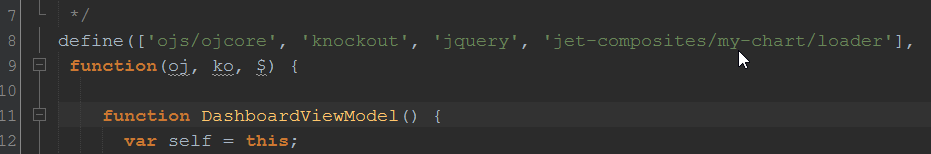
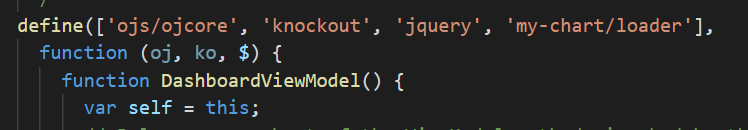
updating composite loader reference and associated image

diff --git a/adv-finished/src/js/viewModels/dashboard.js b/adv-finished/src/js/viewModels/dashboard.js
@@ -5,7 +5,8 @@
 /*
  * Your dashboard ViewModel code goes here
  */
-define(['ojs/ojcore', 'knockout', 'data/data', 'ojs/ojchart',
+define(
+  ['ojs/ojcore', 'knockout', 'data/data', 'ojs/ojchart',
     'ojs/ojmasonrylayout',
     'jet-composites/demo-team/loader',
     'jet-composites/demo-about-me/loader',
@@ -17,153 +18,144 @@ define(['ojs/ojcore', 'knockout', 'data/data', 'ojs/ojchart',
     'jet-composites/demo-ratings/loader',
     'jet-composites/demo-team-activities/loader',
     'data/data'],
-    function (oj, ko, data) {
+  (oj, ko, data) => {
+    function DashboardViewModel() {
+      const self = this;
 
-        function DashboardViewModel() {
-            var self = this;
+      self.personProfile = ko.observableArray([]);
+      self.avatarSrc = ko.observable();
 
-            //** DRM Part 1 Start ** 
-            //Set up the Avatar for the About Me dialog
-            self.personProfile = ko.observableArray([]);
-            self.avatarSrc = ko.observable();
-
-            data.fetchData('js/data/employee100.json').then(function (person) {
-                self.personProfile(person);
-                if (self.personProfile().empId < 188) {
-                    self.avatarSrc('css/images/people/' + self.personProfile().empId + '.png');
-                } else {
-                    self.avatarSrc('css/images/people/nopic.png');
-                }
-            }).fail(function (error) {
-                console.log('Error: ' + error.message);
-            });
-
-            //See handleAttached for Part 2
-            // 
-            // ** DRM Part 1 End **
-
-
-            self.averagePerformance = ko.observable();
-            self.averagePotential = ko.observable();
-            self.ready = ko.observable(false);
-            self.personProfile = ko.observableArray([]);
-
-
-            // Categories
-            var categories = ["Initial", "Qualification", "Meeting", "Proposal", "Close"];
-            self.highlightedCategoriesValue = ko.observableArray([]);
-
-            /* chart data */
-            var barSeries = [{name: categories[0], items: [42, 34]},
-                {name: categories[1], items: [55, 30]},
-                {name: categories[2], items: [36, 50]},
-                {name: categories[3], items: [22, 46]},
-                {name: categories[4], items: [22, 46]}];
-
-            var barGroups = ["Group A", "Group B"];
-
-            self.barSeriesValue = ko.observableArray(barSeries);
-            self.barGroupsValue = ko.observableArray(barGroups);
-
-            /* chart data */
-            var bubbleSeries = [{name: categories[0], items: [{x: 15, y: 25, z: 5}, {x: 25, y: 30, z: 12}, {x: 25, y: 45, z: 12}]},
-                {name: categories[1], items: [{x: 15, y: 15, z: 8}, {x: 20, y: 35, z: 14}, {x: 40, y: 55, z: 35}]},
-                {name: categories[2], items: [{x: 10, y: 10, z: 8}, {x: 18, y: 55, z: 10}, {x: 40, y: 50, z: 18}]},
-                {name: categories[3], items: [{x: 8, y: 20, z: 6}, {x: 11, y: 30, z: 8}, {x: 30, y: 40, z: 15}]},
-                {name: categories[4], items: [{x: 4, y: 17, z: 2}, {x: 35, y: 10, z: 15}, {x: 22, y: 22, z: 13}]}];
-
-            var bubbleGroups = ["Group A", "Group B", "Group C"];
-
-
-            this.bubbleSeriesValue = ko.observableArray(bubbleSeries);
-            this.bubbleGroupsValue = ko.observableArray(bubbleGroups);
-
-            self.loadData = function () {
-                data.fetchData('js/data/employee100.json').then(function (person) {
-                    self.personProfile(person);
-                    self.ready(true);
-                    self.formatAverages();
-                }).fail(function (error) {
-                    console.log('Error: ' + error.message);
-                });
-
-            }
-
-            self.formatAverages = function () {
-                self.averagePerformance(self.personProfile().groupAvgRating.toPrecision(2));
-                self.averagePotential(self.personProfile().groupAvgPotential.toPrecision(2));
-            };
-
-
-
-
-            // Below are a subset of the ViewModel methods invoked by the ojModule binding
-            // Please reference the ojModule jsDoc for additionaly available methods.
-
-            /**
-             * Optional ViewModel method invoked when this ViewModel is about to be
-             * used for the View transition.  The application can put data fetch logic
-             * here that can return a Promise which will delay the handleAttached function
-             * call below until the Promise is resolved.
-             * @param {Object} info - An object with the following key-value pairs:
-             * @param {Node} info.element - DOM element or where the binding is attached. This may be a 'virtual' element (comment node).
-             * @param {Function} info.valueAccessor - The binding's value accessor.
-             * @return {Promise|undefined} - If the callback returns a Promise, the next phase (attaching DOM) will be delayed until
-             * the promise is resolved
-             */
-            self.handleActivated = function (info) {
-                self.loadData();
-            };
-
-            /**
-             * Optional ViewModel method invoked after the View is inserted into the
-             * document DOM.  The application can put logic that requires the DOM being
-             * attached here.
-             * @param {Object} info - An object with the following key-value pairs:
-             * @param {Node} info.element - DOM element or where the binding is attached. This may be a 'virtual' element (comment node).
-             * @param {Function} info.valueAccessor - The binding's value accessor.
-             * @param {boolean} info.fromCache - A boolean indicating whether the module was retrieved from cache.
-             */
-            self.handleAttached = function (info) {
-                // ** DRM Part 2 
-                document.getElementById('AboutMe').addEventListener("demoAboutMeDrill",
-                    function (event) {
-                        var router = oj.Router.rootInstance;
-                        router.go('profile');
-                    });
-            };
-
-
-            /**
-             * Optional ViewModel method invoked after the bindings are applied on this View. 
-             * If the current View is retrieved from cache, the bindings will not be re-applied
-             * and this callback will not be invoked.
-             * @param {Object} info - An object with the following key-value pairs:
-             * @param {Node} info.element - DOM element or where the binding is attached. This may be a 'virtual' element (comment node).
-             * @param {Function} info.valueAccessor - The binding's value accessor.
-             */
-            self.handleBindingsApplied = function (info) {
-                // Implement if needed
-            };
-
-            /*
-             * Optional ViewModel method invoked after the View is removed from the
-             * document DOM.
-             * @param {Object} info - An object with the following key-value pairs:
-             * @param {Node} info.element - DOM element or where the binding is attached. This may be a 'virtual' element (comment node).
-             * @param {Function} info.valueAccessor - The binding's value accessor.
-             * @param {Array} info.cachedNodes - An Array containing cached nodes for the View if the cache is enabled.
-             */
-            self.handleDetached = function (info) {
-                // Implement if needed
-            };
+      data.fetchData('js/data/employee100.json').then((person) => {
+        self.personProfile(person);
+        if (self.personProfile().empId < 188) {
+          self.avatarSrc(`css/images/people/${self.personProfile().empId}.png`);
+        } else {
+          self.avatarSrc('css/images/people/nopic.png');
         }
+      }).fail((error) => {
+        console.log(`Error: ${error.message}`);
+      });
 
-        /*
-         * Returns a constructor for the ViewModel so that the ViewModel is constrcuted
-         * each time the view is displayed.  Return an instance of the ViewModel if
-         * only one instance of the ViewModel is needed.
-         */
-        return new DashboardViewModel();
+      self.averagePerformance = ko.observable();
+      self.averagePotential = ko.observable();
+      self.ready = ko.observable(false);
+      self.personProfile = ko.observableArray([]);
+
+
+      // Categories
+      const categories = ['Initial', 'Qualification', 'Meeting', 'Proposal', 'Close'];
+      self.highlightedCategoriesValue = ko.observableArray([]);
+
+      /* chart data */
+      const barSeries = [{ name: categories[0], items: [42, 34] },
+        { name: categories[1], items: [55, 30] },
+        { name: categories[2], items: [36, 50] },
+        { name: categories[3], items: [22, 46] },
+        { name: categories[4], items: [22, 46] }];
+
+      const barGroups = ['Group A', 'Group B'];
+
+      self.barSeriesValue = ko.observableArray(barSeries);
+      self.barGroupsValue = ko.observableArray(barGroups);
+
+      /* chart data */
+      const bubbleSeries = [{ name: categories[0], items: [{ x: 15, y: 25, z: 5 }, { x: 25, y: 30, z: 12 }, { x: 25, y: 45, z: 12 }] },
+        { name: categories[1], items: [{ x: 15, y: 15, z: 8 }, { x: 20, y: 35, z: 14 }, { x: 40, y: 55, z: 35 }] },
+        { name: categories[2], items: [{ x: 10, y: 10, z: 8 }, { x: 18, y: 55, z: 10 }, { x: 40, y: 50, z: 18 }] },
+        { name: categories[3], items: [{ x: 8, y: 20, z: 6 }, { x: 11, y: 30, z: 8 }, { x: 30, y: 40, z: 15 }] },
+        { name: categories[4], items: [{ x: 4, y: 17, z: 2 }, { x: 35, y: 10, z: 15 }, { x: 22, y: 22, z: 13 }] }];
+
+      const bubbleGroups = ['Group A', 'Group B', 'Group C'];
+
+
+      this.bubbleSeriesValue = ko.observableArray(bubbleSeries);
+      this.bubbleGroupsValue = ko.observableArray(bubbleGroups);
+
+      self.loadData = function () {
+        data.fetchData('js/data/employee100.json').then((person) => {
+          self.personProfile(person);
+          self.ready(true);
+          self.formatAverages();
+        }).fail((error) => {
+          console.log(`Error: ${error.message}`);
+        });
+      };
+
+      self.formatAverages = function () {
+        self.averagePerformance(self.personProfile().groupAvgRating.toPrecision(2));
+        self.averagePotential(self.personProfile().groupAvgPotential.toPrecision(2));
+      };
+
+
+      // Below are a subset of the ViewModel methods invoked by the ojModule binding
+      // Please reference the ojModule jsDoc for additionaly available methods.
+
+      /**
+     * Optional ViewModel method invoked when this ViewModel is about to be
+     * used for the View transition.  The application can put data fetch logic
+     * here that can return a Promise which will delay the handleAttached function
+     * call below until the Promise is resolved.
+     * @param {Object} info - An object with the following key-value pairs:
+     * @param {Node} info.element - DOM element or where the binding is attached.
+     * This may be a 'virtual' element (comment node).
+     * @param {Function} info.valueAccessor - The binding's value accessor.
+     * @return {Promise|undefined} - If the callback returns a Promise,
+     * the next phase (attaching DOM) will be delayed until the promise is resolved
+     */
+      self.handleActivated = function (info) {
+        self.loadData();
+      };
+
+      /**
+     * Optional ViewModel method invoked after the View is inserted into the
+     * document DOM.  The application can put logic that requires the DOM being
+     * attached here.
+     * @param {Object} info - An object with the following key-value pairs:
+     * @param {Node} info.element - DOM element or where the binding is attached. This may be a 'virtual' element (comment node).
+     * @param {Function} info.valueAccessor - The binding's value accessor.
+     * @param {boolean} info.fromCache - A boolean indicating whether the module was retrieved from cache.
+     */
+      self.handleAttached = function (info) {
+        document.getElementById('AboutMe').addEventListener(
+          'demoAboutMeDrill',
+          (event) => {
+            const router = oj.Router.rootInstance;
+            router.go('profile');
+          }
+        );
+      };
+
+
+      /**
+     * Optional ViewModel method invoked after the bindings are applied on this View.
+     * If the current View is retrieved from cache, the bindings will not be re-applied
+     * and this callback will not be invoked.
+     * @param {Object} info - An object with the following key-value pairs:
+     * @param {Node} info.element - DOM element or where the binding is attached. This may be a 'virtual' element (comment node).
+     * @param {Function} info.valueAccessor - The binding's value accessor.
+     */
+      self.handleBindingsApplied = function (info) {
+      // Implement if needed
+      };
+
+      /*
+     * Optional ViewModel method invoked after the View is removed from the
+     * document DOM.
+     * @param {Object} info - An object with the following key-value pairs:
+     * @param {Node} info.element - DOM element or where the binding is attached. This may be a 'virtual' element (comment node).
+     * @param {Function} info.valueAccessor - The binding's value accessor.
+     * @param {Array} info.cachedNodes - An Array containing cached nodes for the View if the cache is enabled.
+     */
+      self.handleDetached = function (info) {
+      // Implement if needed
+      };
     }
+
+    /*
+   * Returns a constructor for the ViewModel so that the ViewModel is constrcuted
+   * each time the view is displayed.  Return an instance of the ViewModel if
+   * only one instance of the ViewModel is needed.
+   */
+    return new DashboardViewModel();
+  }
 );
